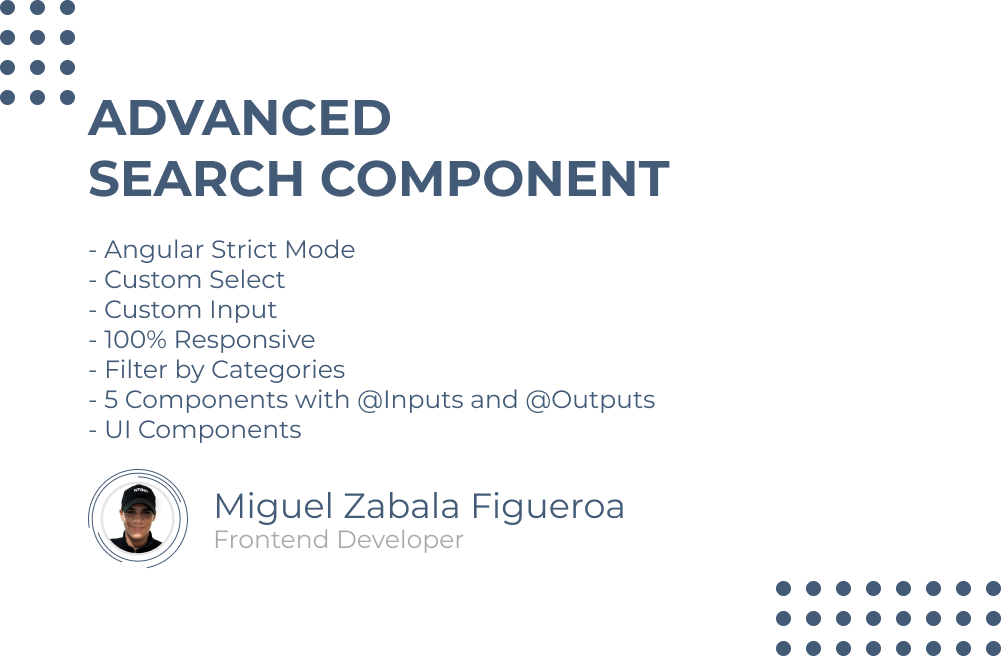
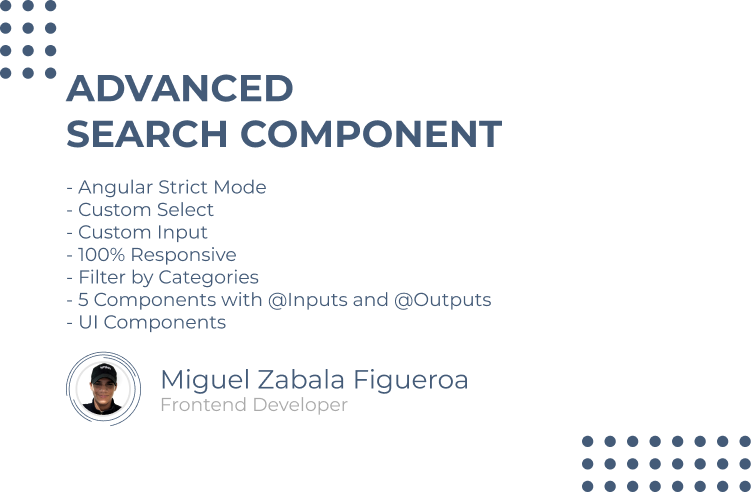
A littles hotfix

diff --git a/src/app/app.component.scss b/src/app/app.component.scss
@@ -1,16 +1,12 @@
-.header {
-  background-color: #fff;
-  height: 70px;
-  &__content {
-    height: 100%;
-    max-width: 1000px;
-    margin: auto;
-    display: flex;
-    align-items: center;
-    justify-content: spac;
-    padding: 0 15px;
-    &--advanced-search {
-      flex: 1;
-    }
+img {
+  margin: auto;
+  display: block;
+  margin-top: 25vh;
+  max-width: 35%;
+}
+
+@media screen and (max-width: 525px) {
+  img {
+    min-width: 75%;
   }
 }

diff --git a/src/app/app.component.html b/src/app/app.component.html
@@ -1,2 +1,2 @@
 <app-header></app-header>
-<img style="margin: auto; display: block; margin-top: 25vh; width: 75%;" src="/assets/advanced-search-info.png" alt="">
+<img style="margin: auto; display: block; margin-top: 25vh; max-width: 35%;" src="/assets/advanced-search-info.png" alt="">
